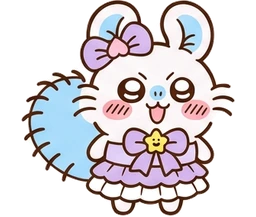
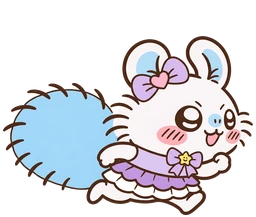
매지컬 3종 스프라이트 수정본 및 초매지컬 스킨 연동 (PR #158)

diff --git a/src/main.ts b/src/main.ts
@@ -58,7 +58,11 @@ const MAGICAL_DARK_RUN = 'momonga-magical-dark-run';
 const MAGICAL_DARK_BASE = 'momonga-magical-dark-base', MAGICAL_DARK_CROUCH = 'momonga-magical-dark-crouch', MAGICAL_DARK_GLIDE = 'momonga-magical-dark-glide';
 const MAGICAL_DARK_TEXTURES = [MAGICAL_DARK_RUN, MAGICAL_DARK_BASE, MAGICAL_DARK_CROUCH, MAGICAL_DARK_GLIDE];
 
-type TestSkinType = 'none' | 'usagi' | 'dekatsuyo' | 'anoko' | 'magical' | 'magical-dark' | 'hula';
+const SUPER_MAGICAL_RUN = 'momonga-super-magical-run';
+const SUPER_MAGICAL_BASE = 'momonga-super-magical-base', SUPER_MAGICAL_CROUCH = 'momonga-super-magical-crouch', SUPER_MAGICAL_GLIDE = 'momonga-super-magical-glide';
+const SUPER_MAGICAL_TEXTURES = [SUPER_MAGICAL_RUN, SUPER_MAGICAL_BASE, SUPER_MAGICAL_CROUCH, SUPER_MAGICAL_GLIDE];
+
+type TestSkinType = 'none' | 'usagi' | 'dekatsuyo' | 'anoko' | 'magical' | 'magical-dark' | 'super-magical' | 'hula';
 let currentTestSkin: TestSkinType = 'none';
 let hulaArtFailed = false;
 let usagiArtFailed = false;
@@ -66,22 +70,23 @@ let dekatsuyoArtFailed = false;
 let anokoArtFailed = false;
 let magicalArtFailed = false;
 let magicalDarkArtFailed = false;
+let superMagicalArtFailed = false;
 
 const hulaToggle = $<HTMLButtonElement>('hula-skin-toggle'), hulaStatus = $('hula-skin-status');
 function setSkinToggleState(type: TestSkinType, message?: string) {
   currentTestSkin = type;
   const isEnabled = type !== 'none';
   hulaToggle.setAttribute('aria-pressed', String(isEnabled));
-  const skinLabel = type === 'magical-dark' ? '매지컬 차지 다크모드' : type === 'magical' ? '매지컬 차지' : type === 'anoko' ? '아노코 인형옷' : type === 'dekatsuyo' ? '데카츠요 인형옷' : type === 'usagi' ? '우사기 인형옷' : type === 'hula' ? '인어섬의 비밀' : '기본';
+  const skinLabel = type === 'super-magical' ? '초매지컬 파워업' : type === 'magical-dark' ? '매지컬 차지 다크모드' : type === 'magical' ? '매지컬 차지' : type === 'anoko' ? '아노코 인형옷' : type === 'dekatsuyo' ? '데카츠요 인형옷' : type === 'usagi' ? '우사기 인형옷' : type === 'hula' ? '인어섬의 비밀' : '기본';
   hulaToggle.setAttribute('aria-label', `테스트 스킨: ${skinLabel}. 더블클릭으로 전환`);
-  hulaToggle.textContent = type === 'magical-dark' ? '🖤' : type === 'magical' ? '✨' : type === 'anoko' ? '🐊' : type === 'dekatsuyo' ? '😈' : type === 'usagi' ? '🐰' : type === 'hula' ? '🌺' : '↓';
+  hulaToggle.textContent = type === 'super-magical' ? '💜' : type === 'magical-dark' ? '🖤' : type === 'magical' ? '✨' : type === 'anoko' ? '🐊' : type === 'dekatsuyo' ? '😈' : type === 'usagi' ? '🐰' : type === 'hula' ? '🌺' : '↓';
   hulaStatus.hidden = false;
-  hulaStatus.textContent = message ?? (type === 'magical-dark' ? '매지컬 차지 다크모드 테스트 스킨 장착!' : type === 'magical' ? '매지컬 차지 테스트 스킨 장착!' : type === 'anoko' ? '아노코 인형옷 테스트 스킨 장착!' : type === 'dekatsuyo' ? '데카츠요 인형옷 테스트 스킨 장착!' : type === 'usagi' ? '우사기 인형옷 테스트 스킨 장착!' : type === 'hula' ? '인어섬의 비밀 스킨 테스트 장착!' : '기본 달리기로 돌아왔어요');
+  hulaStatus.textContent = message ?? (type === 'super-magical' ? '초매지컬 파워업 테스트 스킨 장착!' : type === 'magical-dark' ? '매지컬 차지 다크모드 테스트 스킨 장착!' : type === 'magical' ? '매지컬 차지 테스트 스킨 장착!' : type === 'anoko' ? '아노코 인형옷 테스트 스킨 장착!' : type === 'dekatsuyo' ? '데카츠요 인형옷 테스트 스킨 장착!' : type === 'usagi' ? '우사기 인형옷 테스트 스킨 장착!' : type === 'hula' ? '인어섬의 비밀 스킨 테스트 장착!' : '기본 달리기로 돌아왔어요');
 }
 hulaToggle.addEventListener('dblclick', e => {
   e.preventDefault(); e.stopPropagation();
   if (home.hidden || preparing || intro.active || ready.active || devActive) return;
-  // 순환 토글: none -> usagi -> dekatsuyo -> anoko -> magical -> magical-dark -> hula -> none
+  // 순환 토글: none -> usagi -> dekatsuyo -> anoko -> magical -> magical-dark -> super-magical -> hula -> none
   if (currentTestSkin === 'none') {
     if (usagiArtFailed) { setSkinToggleState('none', '우사기 스킨 이미지를 불러오지 못했어요.'); return; }
     setSkinToggleState('usagi');
@@ -98,6 +103,9 @@ hulaToggle.addEventListener('dblclick', e => {
     if (magicalDarkArtFailed) { setSkinToggleState('none', '매지컬 차지 다크모드 스킨 이미지를 불러오지 못했어요.'); return; }
     setSkinToggleState('magical-dark');
   } else if (currentTestSkin === 'magical-dark') {
+    if (superMagicalArtFailed) { setSkinToggleState('none', '초매지컬 스킨 이미지를 불러오지 못했어요.'); return; }
+    setSkinToggleState('super-magical');
+  } else if (currentTestSkin === 'super-magical') {
     if (hulaArtFailed) { setSkinToggleState('none'); return; }
     setSkinToggleState('hula');
   } else {
@@ -346,6 +354,10 @@ class RunnerScene extends Phaser.Scene {
     this.load.image(MAGICAL_DARK_BASE, '/assets/momonga-magical-dark-base.webp');
     this.load.image(MAGICAL_DARK_GLIDE, '/assets/momonga-magical-dark-glide.webp');
     this.load.spritesheet(MAGICAL_DARK_CROUCH, '/assets/momonga-magical-dark-crouch.webp', { frameWidth: 192, frameHeight: 74 });
+    this.load.spritesheet(SUPER_MAGICAL_RUN, '/assets/momonga-super-magical-run.webp', { frameWidth: 256, frameHeight: 224 });
+    this.load.image(SUPER_MAGICAL_BASE, '/assets/momonga-super-magical-base.webp');
+    this.load.image(SUPER_MAGICAL_GLIDE, '/assets/momonga-super-magical-glide.webp');
+    this.load.spritesheet(SUPER_MAGICAL_CROUCH, '/assets/momonga-super-magical-crouch.webp', { frameWidth: 192, frameHeight: 74 });
   }
   create() {
     if (this.loadFailed) { preparing = false; model.pause(); loading.textContent = '이미지를 불러오지 못했어요. 새로고침해 주세요.'; this.scene.pause(); return; }
@@ -527,7 +539,7 @@ class RunnerScene extends Phaser.Scene {
     const equippedSkin = authService.getUser()?.equippedSkin;
     const activeSkin = currentTestSkin !== 'none'
       ? currentTestSkin
-      : (equippedSkin === 'momonga-magical-dark' ? 'magical-dark' : equippedSkin === 'momonga-magical' ? 'magical' : equippedSkin === 'momonga-kigurumi-anoko' ? 'anoko' : equippedSkin === 'momonga-kigurumi-dekatsuyo' ? 'dekatsuyo' : equippedSkin === 'momonga-kigurumi-usagi' ? 'usagi' : equippedSkin === 'momonga-hula' ? 'hula' : 'none');
+      : (equippedSkin === 'momonga-super-magical' ? 'super-magical' : equippedSkin === 'momonga-magical-dark' ? 'magical-dark' : equippedSkin === 'momonga-magical' ? 'magical' : equippedSkin === 'momonga-kigurumi-anoko' ? 'anoko' : equippedSkin === 'momonga-kigurumi-dekatsuyo' ? 'dekatsuyo' : equippedSkin === 'momonga-kigurumi-usagi' ? 'usagi' : equippedSkin === 'momonga-hula' ? 'hula' : 'none');
 
     const hulaActive = activeSkin === 'hula' && !hulaArtFailed && HULA_TEXTURES.every(key => this.textures.exists(key));
     const usagiActive = activeSkin === 'usagi' && !usagiArtFailed && USAGI_TEXTURES.every(key => this.textures.exists(key));
@@ -535,6 +547,7 @@ class RunnerScene extends Phaser.Scene {
     const anokoActive = activeSkin === 'anoko' && !anokoArtFailed && ANOKO_TEXTURES.every(key => this.textures.exists(key));
     const magicalActive = activeSkin === 'magical' && !magicalArtFailed && MAGICAL_TEXTURES.every(key => this.textures.exists(key));
     const magicalDarkActive = activeSkin === 'magical-dark' && !magicalDarkArtFailed && MAGICAL_DARK_TEXTURES.every(key => this.textures.exists(key));
+    const superMagicalActive = activeSkin === 'super-magical' && !superMagicalArtFailed && SUPER_MAGICAL_TEXTURES.every(key => this.textures.exists(key));
 
     let charTexture = ATLAS;
     let charFrame: string | number = heroFrame;
@@ -543,7 +556,10 @@ class RunnerScene extends Phaser.Scene {
     let heroHeight = gliding ? 81 : duck ? 43 : 98;
     let heroYOffset = 4;
 
-    if (magicalDarkActive) {
+    if (superMagicalActive) {
+      charTexture = gliding ? SUPER_MAGICAL_GLIDE : duck ? SUPER_MAGICAL_CROUCH : model.grounded ? SUPER_MAGICAL_RUN : SUPER_MAGICAL_BASE;
+      charFrame = gliding || !duck && !model.grounded ? '__BASE' : duck ? moving ? crawlFrame : 0 : runFrame;
+    } else if (magicalDarkActive) {
       charTexture = gliding ? MAGICAL_DARK_GLIDE : duck ? MAGICAL_DARK_CROUCH : model.grounded ? MAGICAL_DARK_RUN : MAGICAL_DARK_BASE;
       charFrame = gliding || !duck && !model.grounded ? '__BASE' : duck ? moving ? crawlFrame : 0 : runFrame;
     } else if (magicalActive) {
@@ -1345,7 +1361,7 @@ const SKIN_CONFIGS: Record<string, SkinAssetConfig> = {
     glideSrc: '/assets/momonga-magical-glide.webp',
     idleSrc: '/assets/momonga-magical-idle.webp',
     crouchFrameW: 192, crouchFrameH: 74,
-    glideAspectW: 223, glideAspectH: 175
+    glideAspectW: 138, glideAspectH: 101
   },
   'momonga-magical-dark': {
     name: '매지컬 차지 다크모드 스킨',
@@ -1355,7 +1371,17 @@ const SKIN_CONFIGS: Record<string, SkinAssetConfig> = {
     glideSrc: '/assets/momonga-magical-dark-glide.webp',
     idleSrc: '/assets/momonga-magical-dark-idle.webp',
     crouchFrameW: 192, crouchFrameH: 74,
-    glideAspectW: 223, glideAspectH: 175
+    glideAspectW: 138, glideAspectH: 101
+  },
+  'momonga-super-magical': {
+    name: '초매지컬 파워업 스킨',
+    runSrc: '/assets/momonga-super-magical-run.webp',
+    baseSrc: '/assets/momonga-super-magical-base.webp',
+    crouchSrc: '/assets/momonga-super-magical-crouch.webp',
+    glideSrc: '/assets/momonga-super-magical-glide.webp',
+    idleSrc: '/assets/momonga-super-magical-idle.webp',
+    crouchFrameW: 192, crouchFrameH: 74,
+    glideAspectW: 138, glideAspectH: 101
   }
 };
 

diff --git a/src/shop.ts b/src/shop.ts
@@ -64,6 +64,15 @@ export const SHOP_ITEMS: ShopItem[] = [
     icon: '/assets/momonga-magical-dark-idle.webp',
     preview: '/assets/momonga-magical-dark-run.webp',
     idleImg: '/assets/momonga-magical-dark-idle.webp'
+  },
+  {
+    id: 'momonga-super-magical',
+    name: '초매지컬 파워업 스킨',
+    desc: '작은 악마 뿔과 박쥐 날개 망토, 앙증맞은 메롱 표정과 글썽이는 눈망울의 초매지컬 모몽가 코스튬',
+    price: 350,
+    icon: '/assets/momonga-super-magical-idle.webp',
+    preview: '/assets/momonga-super-magical-run.webp',
+    idleImg: '/assets/momonga-super-magical-idle.webp'
   }
 ];
 
